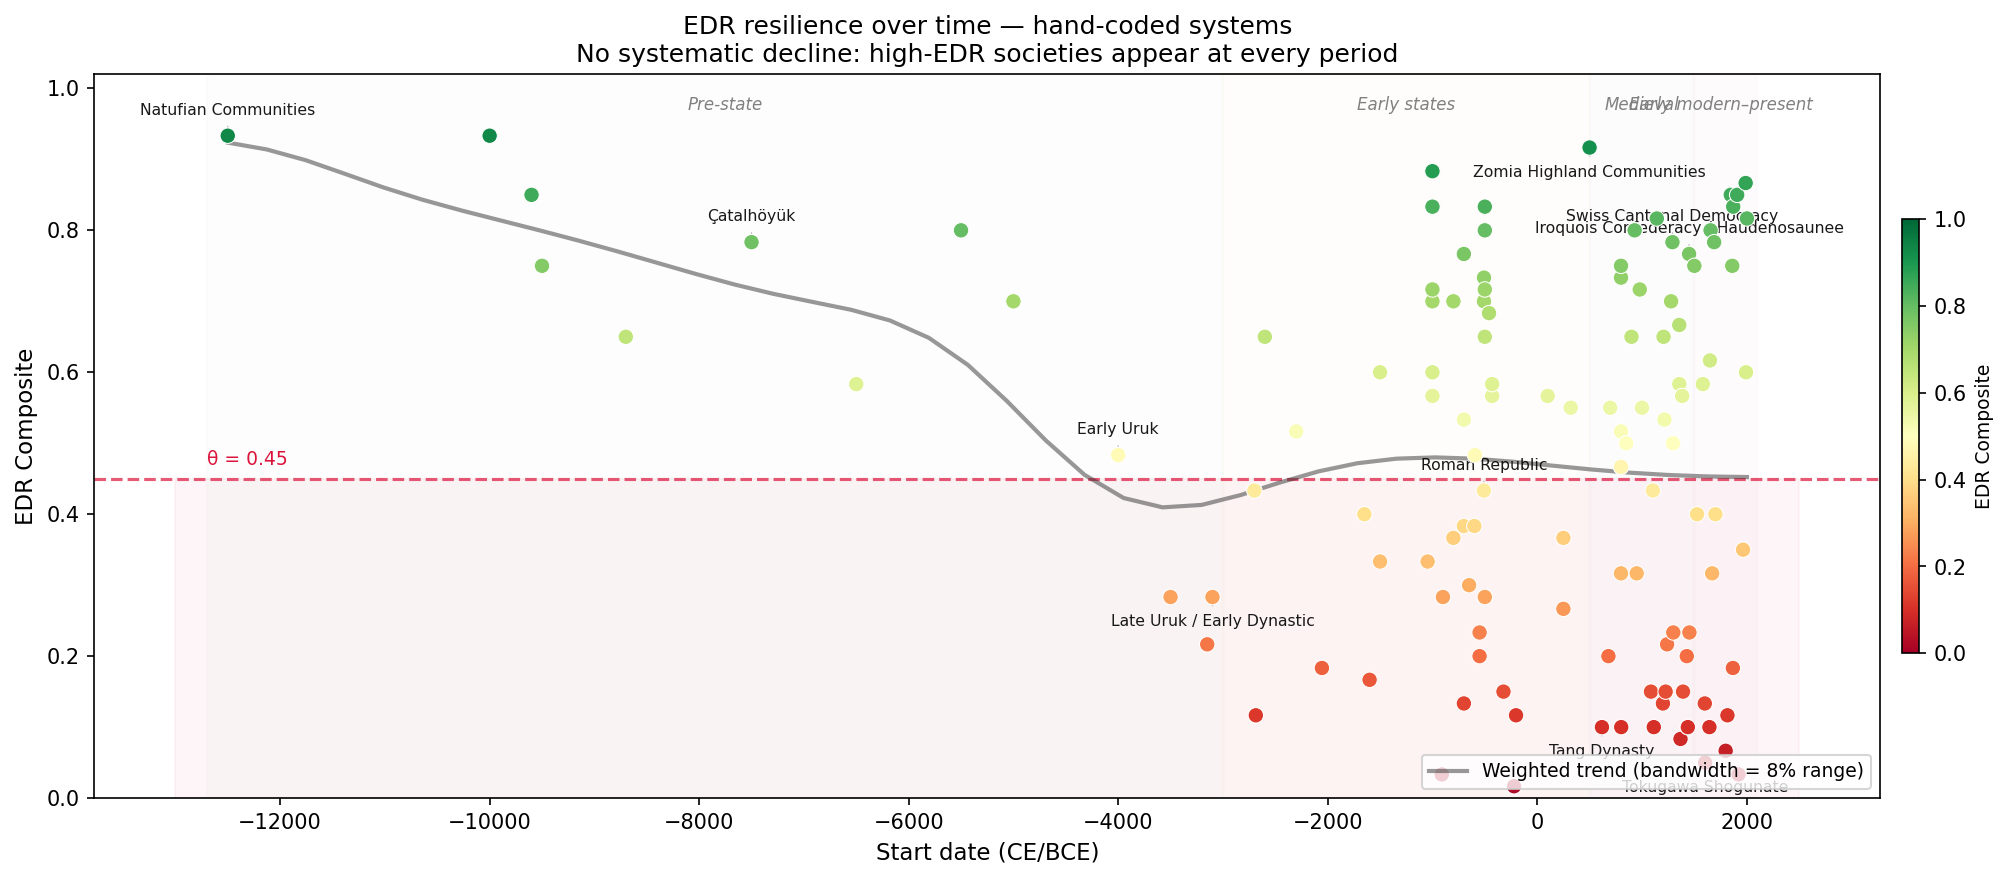
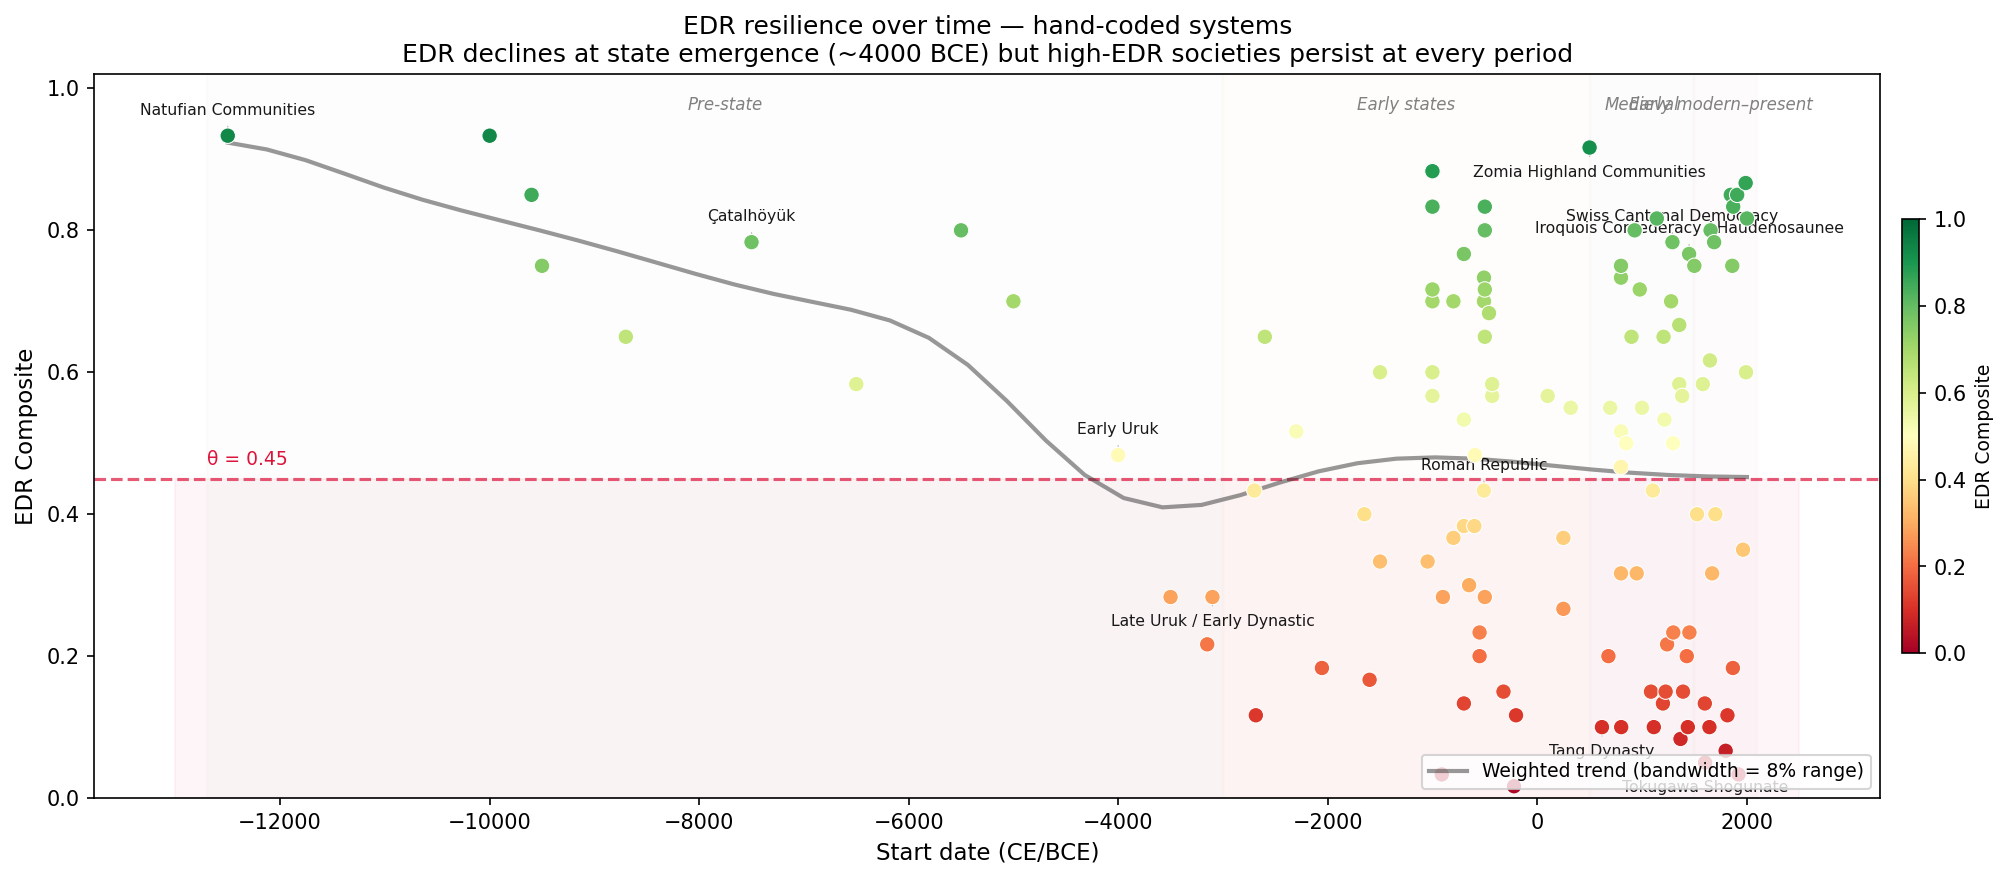
fix: clear legend overlap in edr_distribution; sharpen timeline subtitle to reflect trend line narrative

Changed region(s): [[0.216, 0.0307, 0.7715, 0.0922]]

diff --git a/src/phase_space.py b/src/phase_space.py
@@ -199,7 +199,7 @@ def plot_edr_distribution(rows):
     ax.fill_betweenx([0, ymax], 0, THRESHOLD, alpha=0.04, color='crimson')
     ax.text(THRESHOLD/2, ymax*0.88, f'Fragile regime\n({fragile} systems, {100*fragile//len(all_edr)}%)',
             ha='center', color='crimson', fontsize=9)
-    ax.text((THRESHOLD+1)/2, ymax*0.88, f'Resilient regime\n({len(all_edr)-fragile} systems)',
+    ax.text((THRESHOLD+1)/2, ymax*0.72, f'Resilient regime\n({len(all_edr)-fragile} systems)',
             ha='center', color='#2d7a2d', fontsize=9)
 
     ax.set_xlabel('EDR Composite', fontsize=11)
@@ -368,7 +368,7 @@ def plot_timeline_edr(rows):
     ax.set_xlabel('Start date (CE/BCE)', fontsize=11)
     ax.set_ylabel('EDR Composite', fontsize=11)
     ax.set_title('EDR resilience over time — hand-coded systems\n'
-                 'No systematic decline: high-EDR societies appear at every period',
+                 'EDR declines at state emergence (~4000 BCE) but high-EDR societies persist at every period',
                  fontsize=12)
     ax.set_ylim(0, 1.02)
     ax.legend(fontsize=9, loc='lower right')